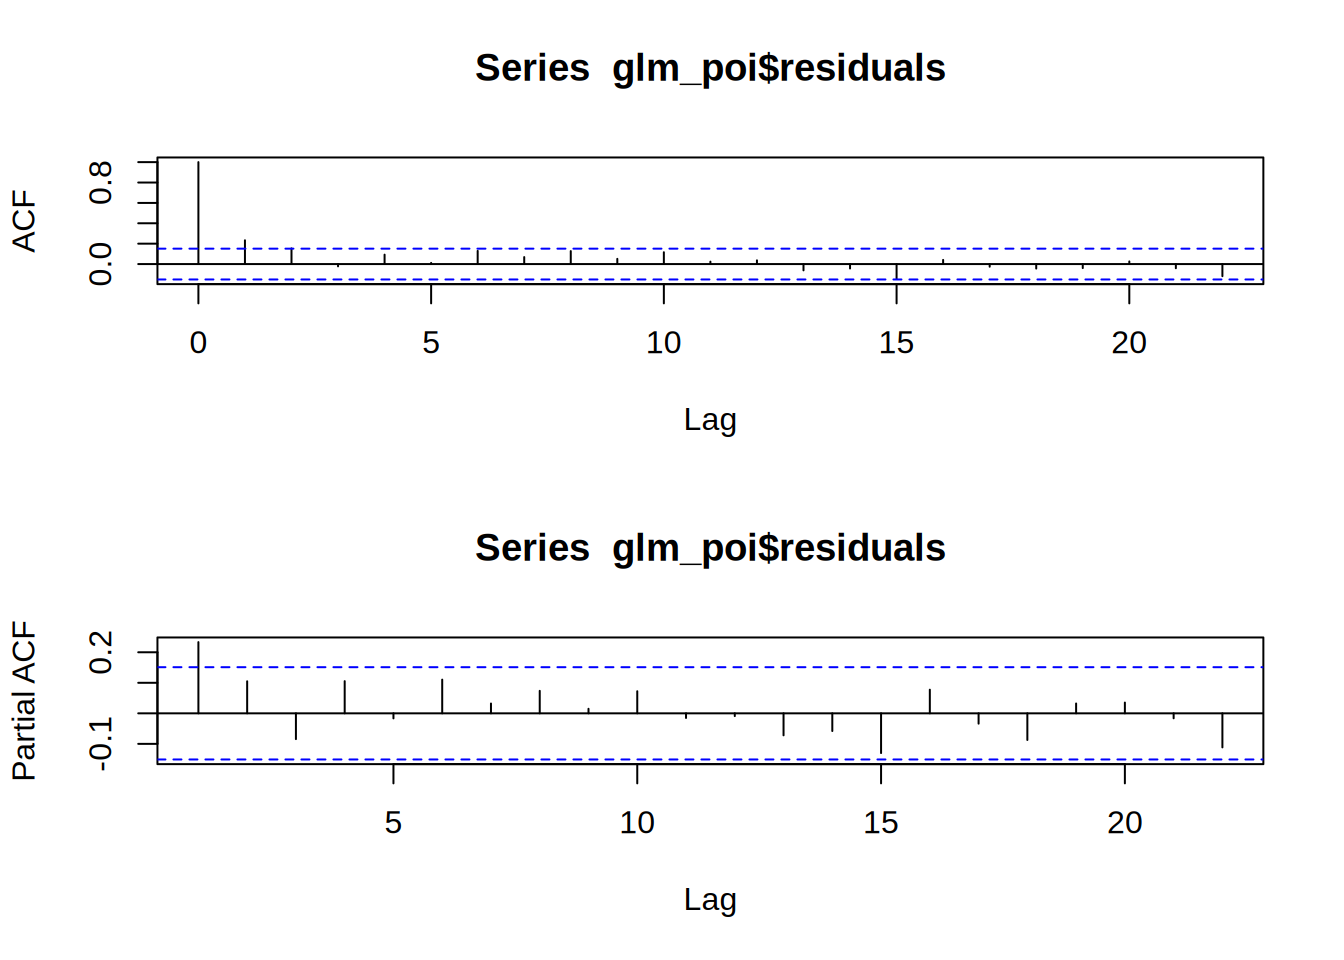
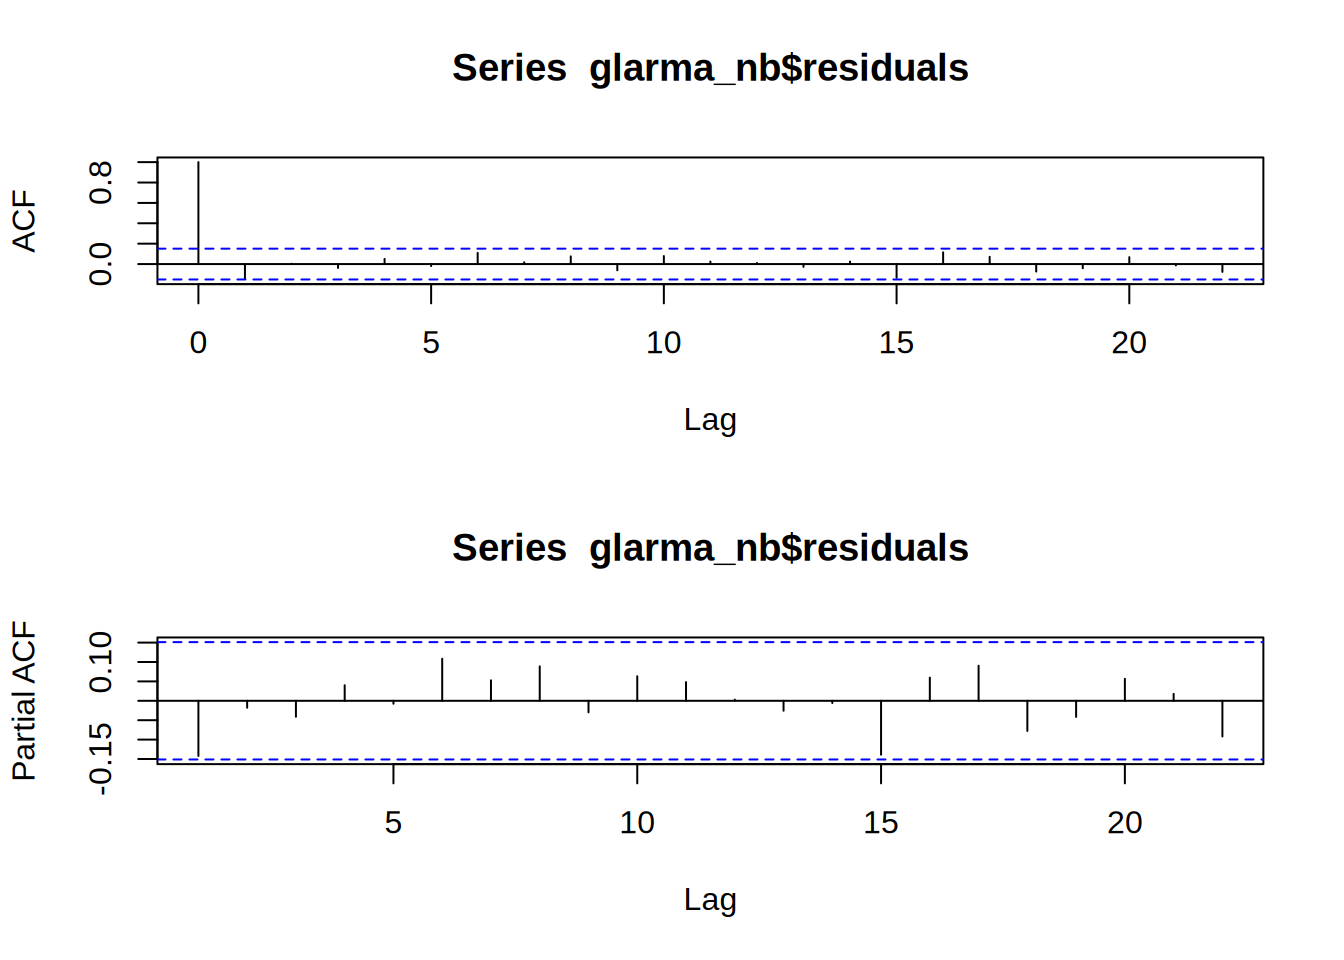
.

Changed region(s): [[0.0625, 0.6562, 0.9375, 0.8125], [0.3438, 0.5312, 0.7188, 0.5938], [0.3438, 0.0312, 0.7188, 0.0938]]

diff --git a/index.html b/index.html
@@ -566,24 +566,24 @@ Signif. codes:  0 '***' 0.001 '**' 0.01 '*' 0.05 '.' 0.1 ' ' 1</code></pre>
 </div>
 </div>
 <ol type="1">
-<li><p><strong>Observed vs Fixed vs GLARMA:</strong> Esse gráfico compara os dados observados (linha preta) com os ajustes do modelo fixo (linha azul) e do GLARMA (linha vermelha). Como as três linhas estão bastante próximas, isso sugere que o modelo GLARMA captura bem a dinâmica dos dados observados.</p></li>
-<li><p><strong>Pearson Residuals:</strong> Resíduos de Pearson são as diferenças entre os valores observados e ajustados pelo modelo. O gráfico mostra resíduos sem padrões claros, mas há alguns desvios maiores que podem sugerir que o modelo não está ajustando perfeitamente em certas partes da série.</p></li>
-<li><p><strong>Histogram of Uniform PIT:</strong> Esse histograma deve ser aproximadamente uniforme para indicar um bom ajuste. Embora haja algum desvio em relação à linha de referência, ele é pequeno, o que indica que o modelo está adequadamente ajustado.</p></li>
-<li><p><strong>Histogram of Randomized Residuals:</strong> Aqui, espera-se uma distribuição simétrica em torno de zero e com formato próximo ao normal. Apesar de alguma assimetria, o gráfico ainda mostra uma forma que se aproxima de uma distribuição normal, sugerindo que o modelo está ajustado corretamente.</p></li>
-<li><p><strong>Q-Q Plot of Randomized Residuals:</strong> O gráfico quantil-quantil deve exibir pontos alinhados à linha pontilhada para indicar normalidade nos resíduos. Como não há desvios significativos, isso sugere que o modelo está ajustando bem.</p></li>
+<li><p><strong>Observed vs Fixed vs GLARMA:</strong> Esse gráfico compara os dados observados (linha preta) com os ajustes do modelo fixo (linha azul) e do GLARMA (linha vermelha). A linha do GLARMA acompanha bem a dos dados obserados, porém os ajustes do modelo fixo não segue tão bem.</p></li>
+<li><p><strong>Pearson Residuals:</strong> Resíduos de Pearson são as diferenças entre os valores observados e o valores esperados, ajustando-se pelas variações esperadas. O gráfico mostra resíduos sem padrões claros ou desvios maiores, o que sugere um modelo possivelmente adequado.</p></li>
+<li><p><strong>Histogram of Uniform PIT:</strong> Esse histograma deve ser aproximadamente uniforme para indicar um bom ajuste. Há um desvio em relação à linha de referência, o que indica que o modelo não está adequadamente ajustado.</p></li>
+<li><p><strong>Histogram of Randomized Residuals:</strong> Aqui, espera-se uma distribuição simétrica em torno de zero e com formato próximo ao normal. O gráfico apresenta assimetria e não se aproxima de uma distribuição normal, sugerindo que o modelo não está ajustado corretamente.</p></li>
+<li><p><strong>Q-Q Plot of Randomized Residuals:</strong> O gráfico quantil-quantil deve exibir pontos alinhados à linha pontilhada para indicar normalidade nos resíduos. Os pontos se apresentam relativamente proximos a linha porém há desvios nas extremidades.</p></li>
 <li><p><strong>ACF of Randomized Residuals:</strong> A ausência de autocorrelações significativas (barras fora da área pontilhada) indica que o modelo capturou bem a dependência temporal, reforçando a qualidade do ajuste.</p></li>
 </ol>
 </section>
 </section>
 <section id="conclusão-do-modelo-glarma-poisson" class="level2">
 <h2 class="anchored" data-anchor-id="conclusão-do-modelo-glarma-poisson">Conclusão do Modelo GLARMA Poisson</h2>
-<p>O modelo GLARMA Poisson ajustou-se bem aos dados, capturando a dependência temporal de forma eficiente. Os resíduos mostraram-se aleatórios e próximos de uma distribuição normal, com pequenos desvios não significativos. A ausência de autocorrelações nos resíduos confirma que o modelo capturou adequadamente as estruturas temporais presentes na série, indicando um bom ajuste geral para dados de contagem.</p>
+<p>O modelo GLARMA Poisson capturou bem a dependência temporal dos dados, apresentando coeficientes significativos e o menor AIC entre os modelos testados. Embora a análise dos resíduos indique um ajuste geral adequado, alguns gráficos sugerem falhas na adequação da distribuição dos resíduos. No entanto, o modelo ainda oferece um bom equilíbrio entre ajuste e complexidade, sendo uma escolha sólida para a série analisada.</p>
 </section>
 </section>
 <section id="ajuste-do-modelo-glarma-binomial-negativo" class="level1">
 <h1>Ajuste do Modelo GLARMA Binomial Negativo</h1>
 <div class="cell">
-<div class="sourceCode cell-code" id="cb32"><pre class="sourceCode r code-with-copy"><code class="sourceCode r"><span id="cb32-1"><a href="#cb32-1" aria-hidden="true" tabindex="-1"></a>glarma_nb <span class="ot">&lt;-</span> <span class="fu">glarma</span>(y, X, <span class="at">thetaLags =</span> <span class="fu">c</span>(<span class="dv">1</span>,<span class="dv">2</span>,<span class="dv">4</span>), <span class="at">type =</span> <span class="st">"NegBin"</span>,</span>
+<div class="sourceCode cell-code" id="cb32"><pre class="sourceCode r code-with-copy"><code class="sourceCode r"><span id="cb32-1"><a href="#cb32-1" aria-hidden="true" tabindex="-1"></a>glarma_nb <span class="ot">&lt;-</span> <span class="fu">glarma</span>(y, X, <span class="at">thetaLags =</span> <span class="fu">c</span>(<span class="dv">1</span>,<span class="dv">2</span>), <span class="at">phiLags =</span> <span class="dv">4</span>, <span class="at">type =</span> <span class="st">"NegBin"</span>,</span>
 <span id="cb32-2"><a href="#cb32-2" aria-hidden="true" tabindex="-1"></a>                       <span class="at">method =</span> <span class="st">"FS"</span>, <span class="at">residuals=</span> <span class="st">"Pearson"</span>,</span>
 <span id="cb32-3"><a href="#cb32-3" aria-hidden="true" tabindex="-1"></a>                       <span class="at">maxit =</span> <span class="dv">100</span>, <span class="at">grad =</span> <span class="fl">1e-6</span>)</span></code><button title="Copy to Clipboard" class="code-copy-button"><i class="bi"></i></button></pre></div>
 </div>
@@ -591,43 +591,47 @@ Signif. codes:  0 '***' 0.001 '**' 0.01 '*' 0.05 '.' 0.1 ' ' 1</code></pre>
 <section id="summary-do-modelo-3" class="level2">
 <h2 class="anchored" data-anchor-id="summary-do-modelo-3">Summary do Modelo</h2>
 <div class="cell">
-<div class="sourceCode cell-code" id="cb33"><pre class="sourceCode r code-with-copy"><code class="sourceCode r"><span id="cb33-1"><a href="#cb33-1" aria-hidden="true" tabindex="-1"></a><span class="fu">summary</span>(glarma_poi)</span></code><button title="Copy to Clipboard" class="code-copy-button"><i class="bi"></i></button></pre></div>
+<div class="sourceCode cell-code" id="cb33"><pre class="sourceCode r code-with-copy"><code class="sourceCode r"><span id="cb33-1"><a href="#cb33-1" aria-hidden="true" tabindex="-1"></a><span class="fu">summary</span>(glarma_nb)</span></code><button title="Copy to Clipboard" class="code-copy-button"><i class="bi"></i></button></pre></div>
 <div class="cell-output cell-output-stdout">
 <pre><code>
-Call: glarma(y = y, X = X, type = "Poi", method = "FS", residuals = "Pearson", 
-    phiLags = 5, thetaLags = c(1, 2), maxit = 100, grad = 1e-06)
+Call: glarma(y = y, X = X, type = "NegBin", method = "FS", residuals = "Pearson", 
+    phiLags = 4, thetaLags = c(1, 2), maxit = 100, grad = 1e-06)
 
 Pearson Residuals:
     Min       1Q   Median       3Q      Max  
--2.0456  -0.9401  -0.1482   0.7805   4.4827  
+-1.2262  -0.7451  -0.0504   0.7807   3.8074  
+
+Negative Binomial Parameter:
+      Estimate Std.Error z-ratio Pr(&gt;|z|)
+alpha    1.594     1.068   1.492    0.136
 
 GLARMA Coefficients:
         Estimate Std.Error z-ratio Pr(&gt;|z|)    
-phi_5    0.10133   0.04734   2.141   0.0323 *  
-theta_1  0.21544   0.04753   4.532 5.83e-06 ***
-theta_2  0.11627   0.04895   2.375   0.0175 *  
+phi_4    0.16837   0.07528   2.237  0.02531 *  
+theta_1  0.28172   0.06599   4.269 1.96e-05 ***
+theta_2  0.26796   0.08523   3.144  0.00167 ** 
 
 Linear Model Coefficients:
-              Estimate Std.Error z-ratio Pr(&gt;|z|)    
-Intcpt          0.1314    0.1150   1.143 0.253199    
-Trend          -3.9060    2.2095  -1.768 0.077090 .  
-CosAnnual      -0.1003    0.1126  -0.891 0.373115    
-SinAnnual      -0.5221    0.1323  -3.947  7.9e-05 ***
-CosSemiAnnual   0.2059    0.1141   1.805 0.071146 .  
-SinSemiAnnual  -0.3944    0.1185  -3.328 0.000874 ***
+              Estimate Std.Error z-ratio Pr(&gt;|z|)   
+Intcpt          0.1805    0.1738   1.038  0.29913   
+Trend          -3.3590    3.3081  -1.015  0.30992   
+CosAnnual      -0.1145    0.1678  -0.682  0.49502   
+SinAnnual      -0.6011    0.1895  -3.172  0.00152 **
+CosSemiAnnual   0.3341    0.1430   2.336  0.01951 * 
+SinSemiAnnual  -0.3837    0.1349  -2.845  0.00444 **
 
-    Null deviance: 343.00  on 167  degrees of freedom
-Residual deviance: 249.16  on 159  degrees of freedom
-AIC: 536.2883 
+    Null deviance: 201.22  on 167  degrees of freedom
+Residual deviance: 190.84  on 158  degrees of freedom
+AIC: 515.9526 
 
-Number of Fisher Scoring iterations: 20
+Number of Fisher Scoring iterations: 100
 
 LRT and Wald Test:
 Alternative hypothesis: model is a GLARMA process
 Null hypothesis: model is a GLM with the same regression structure
           Statistic  p-value    
-LR Test       27.61 4.39e-06 ***
-Wald Test     34.85 1.31e-07 ***
+LR Test       11.70  0.00847 ** 
+Wald Test     27.21 5.33e-06 ***
 ---
 Signif. codes:  0 '***' 0.001 '**' 0.01 '*' 0.05 '.' 0.1 ' ' 1</code></pre>
 </div>
@@ -639,8 +643,8 @@ Signif. codes:  0 '***' 0.001 '**' 0.01 '*' 0.05 '.' 0.1 ' ' 1</code></pre>
 <h3 class="anchored" data-anchor-id="acf-autocorrelação-e-pacf-autocorrelação-parcial-3">ACF (Autocorrelação) e PACF (Autocorrelação Parcial)</h3>
 <div class="cell">
 <div class="sourceCode cell-code" id="cb35"><pre class="sourceCode r code-with-copy"><code class="sourceCode r"><span id="cb35-1"><a href="#cb35-1" aria-hidden="true" tabindex="-1"></a><span class="fu">par</span>(<span class="at">mfrow =</span> <span class="fu">c</span>(<span class="dv">2</span>, <span class="dv">1</span>))</span>
-<span id="cb35-2"><a href="#cb35-2" aria-hidden="true" tabindex="-1"></a><span class="fu">acf</span>(glm_poi<span class="sc">$</span>residuals)</span>
-<span id="cb35-3"><a href="#cb35-3" aria-hidden="true" tabindex="-1"></a><span class="fu">pacf</span>(glm_poi<span class="sc">$</span>residuals)</span></code><button title="Copy to Clipboard" class="code-copy-button"><i class="bi"></i></button></pre></div>
+<span id="cb35-2"><a href="#cb35-2" aria-hidden="true" tabindex="-1"></a><span class="fu">acf</span>(glarma_nb<span class="sc">$</span>residuals)</span>
+<span id="cb35-3"><a href="#cb35-3" aria-hidden="true" tabindex="-1"></a><span class="fu">pacf</span>(glarma_nb<span class="sc">$</span>residuals)</span></code><button title="Copy to Clipboard" class="code-copy-button"><i class="bi"></i></button></pre></div>
 <div class="cell-output-display">
 <div>
 <figure class="figure">
@@ -655,7 +659,7 @@ Signif. codes:  0 '***' 0.001 '**' 0.01 '*' 0.05 '.' 0.1 ' ' 1</code></pre>
 <h3 class="anchored" data-anchor-id="diagnóstico-dos-resíduos-3">Diagnóstico dos Resíduos</h3>
 <div class="cell">
 <div class="sourceCode cell-code" id="cb36"><pre class="sourceCode r code-with-copy"><code class="sourceCode r"><span id="cb36-1"><a href="#cb36-1" aria-hidden="true" tabindex="-1"></a><span class="fu">par</span>(<span class="at">mfrow=</span><span class="fu">c</span>(<span class="dv">2</span>,<span class="dv">3</span>))</span>
-<span id="cb36-2"><a href="#cb36-2" aria-hidden="true" tabindex="-1"></a><span class="fu">plot</span>(glarma_poi)</span></code><button title="Copy to Clipboard" class="code-copy-button"><i class="bi"></i></button></pre></div>
+<span id="cb36-2"><a href="#cb36-2" aria-hidden="true" tabindex="-1"></a><span class="fu">plot</span>(glarma_nb)</span></code><button title="Copy to Clipboard" class="code-copy-button"><i class="bi"></i></button></pre></div>
 <div class="cell-output-display">
 <div>
 <figure class="figure">
@@ -665,11 +669,11 @@ Signif. codes:  0 '***' 0.001 '**' 0.01 '*' 0.05 '.' 0.1 ' ' 1</code></pre>
 </div>
 </div>
 <ol type="1">
-<li><p><strong>Observed vs Fixed vs GLARMA:</strong> As três linhas estão próximas, como no modelo Poisson, indicando um bom ajuste.</p></li>
-<li><p><strong>Pearson Residuals:</strong> Os resíduos mostram-se sem padrões claros, com alguns desvios maiores, assim como no modelo anterior.</p></li>
-<li><p><strong>Histogram of Uniform PIT:</strong> O desvio da uniformidade é menor em comparação ao modelo Poisson, sugerindo um ajuste mais preciso.</p></li>
-<li><p><strong>Histogram of Randomized Residuals:</strong> A distribuição dos resíduos se aproxima da normal, com menor desvio que no modelo Poisson.</p></li>
-<li><p><strong>Q-Q Plot of Randomized Residuals:</strong> Os pontos no gráfico seguem a linha pontilhada, confirmando a normalidade dos resíduos.</p></li>
+<li><p><strong>Observed vs Fixed vs GLARMA:</strong> Assim como no modelo poisson, a linha vermelha está mais proxima da preta do que a linha azul.</p></li>
+<li><p><strong>Pearson Residuals:</strong> Os resíduos mostram-se sem padrões claros ou desvios maiores, assim como no modelo anterior.</p></li>
+<li><p><strong>Histogram of Uniform PIT:</strong> O desvio da uniformidade ainda persiste, sugerindo imprecisão no modelo.</p></li>
+<li><p><strong>Histogram of Randomized Residuals:</strong> Diferentimente do modelo poisson, a distribuição dos resíduos se aproxima da normal, com menor assimetria.</p></li>
+<li><p><strong>Q-Q Plot of Randomized Residuals:</strong> Os pontos no gráfico seguem a linha pontilhada, porém como no modelo poisson, há desvios nas extremidades.</p></li>
 <li><p><strong>ACF of Randomized Residuals:</strong> A ausência de autocorrelações reforça o bom ajuste.</p></li>
 </ol>
 </section>
